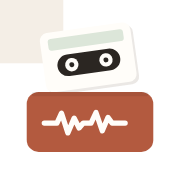
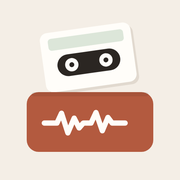
תיקון סמלי מסך הבית הקטנים שיצאו חתוכים, ומספר גרסה לכתובת הסמלים
Claude-Session: https://claude.ai/code/session_017nXJhApJQnfgADi6xrDhWa

diff --git a/sw.js b/sw.js
@@ -1,6 +1,6 @@
 // שומר את קבצי האפליקציה במכשיר כדי שתיפתח גם בלי קליטה.
 // לא שומר שום תוכן: השירים נשמרים מוצפנים בנפרד, וההקלטות לא נשמרות כאן.
-const V = 'megira-v6';
+const V = 'megira-v7';
 const SHELL = ['./', 'index.html', 'css/app.css', 'manifest.webmanifest', 'js/app.js', 'js/api.js', 'js/store.js', 'js/db.js', 'js/crypto.js', 'js/chords.js', 'js/audio.js', 'js/importer.js', 'js/config.js', 'js/passkey.js', 'js/theme.js', 'icons/icon-192.png', 'icons/apple-touch-icon.png', 'icons/favicon.png'];
 
 self.addEventListener('install', e => { e.waitUntil(caches.open(V).then(c => c.addAll(SHELL)).then(() => self.skipWaiting())); });

diff --git a/index.html b/index.html
@@ -13,8 +13,8 @@
 <meta name="apple-mobile-web-app-title" content="המגירה">
 <title>המגירה</title>
 <link rel="manifest" href="manifest.webmanifest">
-<link rel="icon" href="icons/favicon.png">
-<link rel="apple-touch-icon" href="icons/apple-touch-icon.png">
+<link rel="icon" href="icons/favicon.png?v=3">
+<link rel="apple-touch-icon" href="icons/apple-touch-icon.png?v=3">
 <link rel="preconnect" href="https://fonts.googleapis.com">
 <link rel="preconnect" href="https://fonts.gstatic.com" crossorigin>
 <link rel="stylesheet" href="https://fonts.googleapis.com/css2?family=Noto+Serif+Hebrew:wght@400;500;600;700&family=Rubik:wght@400;500;600;700&family=IBM+Plex+Mono:wght@500;600&display=swap">
